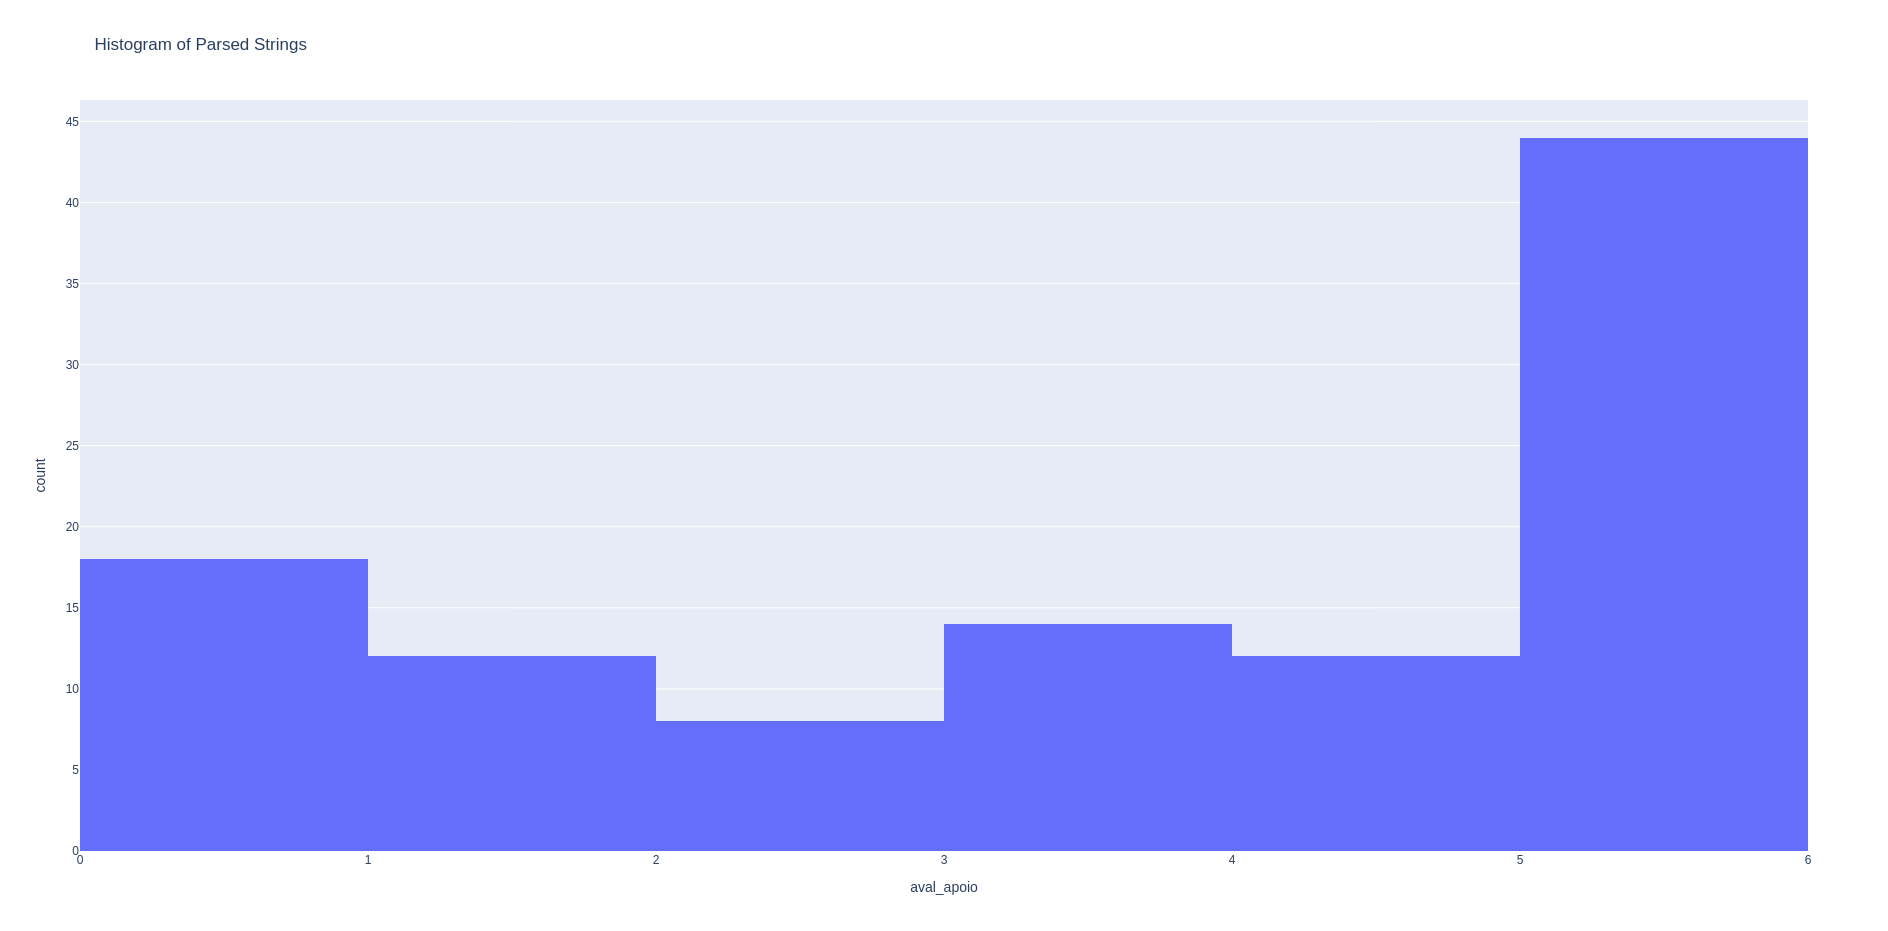
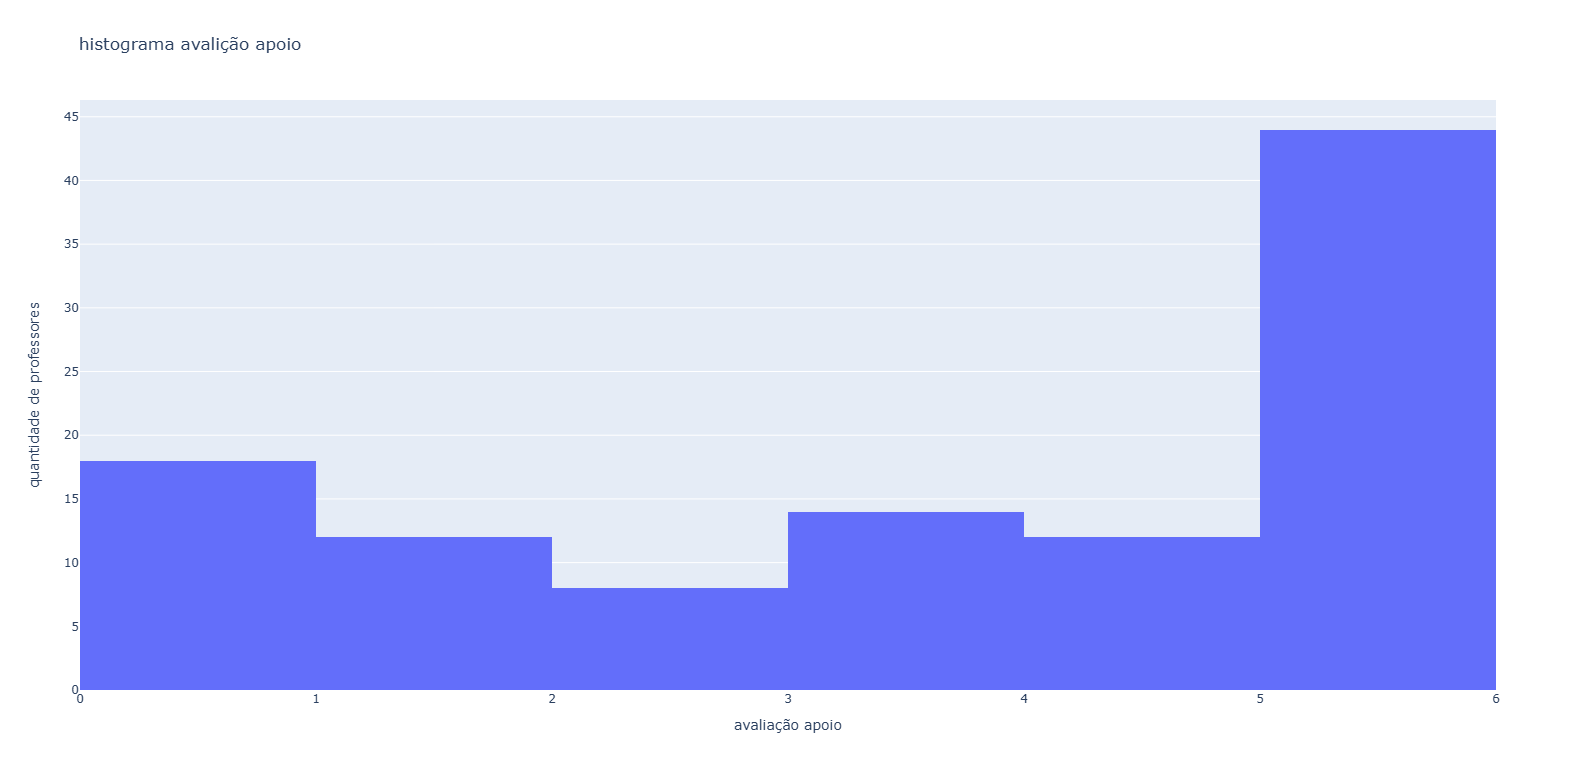
final analise de analise dados

diff --git a/analise_dados/visu_prof.py b/analise_dados/visu_prof.py
@@ -2,15 +2,21 @@ import pandas as pd
 import plotly.express as px
 
 
-df = pd.read_excel("tabela_prof.xlsx")
+df = pd.read_excel(r"C:\Users\Alunos\Desktop\pedro\Projeto-ds\analise_dados\excel\tabela_prof.xlsx")
 
-fig = px.histogram(df, x="aval_apoio", title='Histogram of Parsed Strings')
+fig = px.histogram(df, x="aval_apoio", title='histograma avalição apoio', ).update_layout(xaxis_title="avaliação apoio", 
+                   yaxis_title="quantidade de professores")
 
 fig.show()
 
-fig = px.histogram(df, x="aval_dificuldade", title='Histogram of Parsed Strings')
+fig = px.histogram(df, x="aval_dificuldade", title='Histograma avaliação dificuldade', 
+                    ).update_layout(xaxis_title="avaliação dificuldade",
+                   yaxis_title="quantidade de professores")
 fig.show()
-fig = px.histogram(df, x="aval_didatica", title='Histogram of Parsed Strings')
+fig = px.histogram(df, x="aval_didatica", title='Histograma avaliação didática', ).update_layout(yaxis_title="quantidade de professores",
+                   xaxis_title="avaliação didática")
 fig.show()
-fig = px.histogram(df, x="total_avaliadores", title='Histogram of Parsed Strings')
+fig = px.histogram(df, x="total_avaliadores", title='histograma quantidade de avalições por professor',).update_layout(yaxis_title="quantidade de professores", 
+                   xaxis_title="quantidade avaliadores")
+
 fig.show()

diff --git a/analise_dados/get_data.py b/analise_dados/get_data.py
@@ -15,6 +15,7 @@ print(f'Coletamos  {len(professor_df)} professores e {len(materias_df)} materias
 print('--'*25)
 print(f'Tivemos {len(users_df)} cadastros feitos, {len(comentario_df)} comentários feitos. Tivemos {turmas_df["numero_avaliacoes"].sum()} avaliaçõesde matérias')
 print("-="*25)
+print(f"taxa de {(len(comentario_df)/len(users_df)):.2f} comentário por usuário. 1.79 de avaliações por usuário")
 print(comentario_df.columns)
 texto = ''
 for e in comentario_df.iterrows():
@@ -22,8 +23,8 @@ for e in comentario_df.iterrows():
 
 texto = texto.replace(" que", " ")
 
-with open("texto_comentarios.txt", "w", encoding="utf-8") as fp:
-    fp.write(texto)
+#with open("texto_comentarios.txt", "w", encoding="utf-8") as fp:
+#    fp.write(texto)
   
 #print(turmas_df.columns)
 
